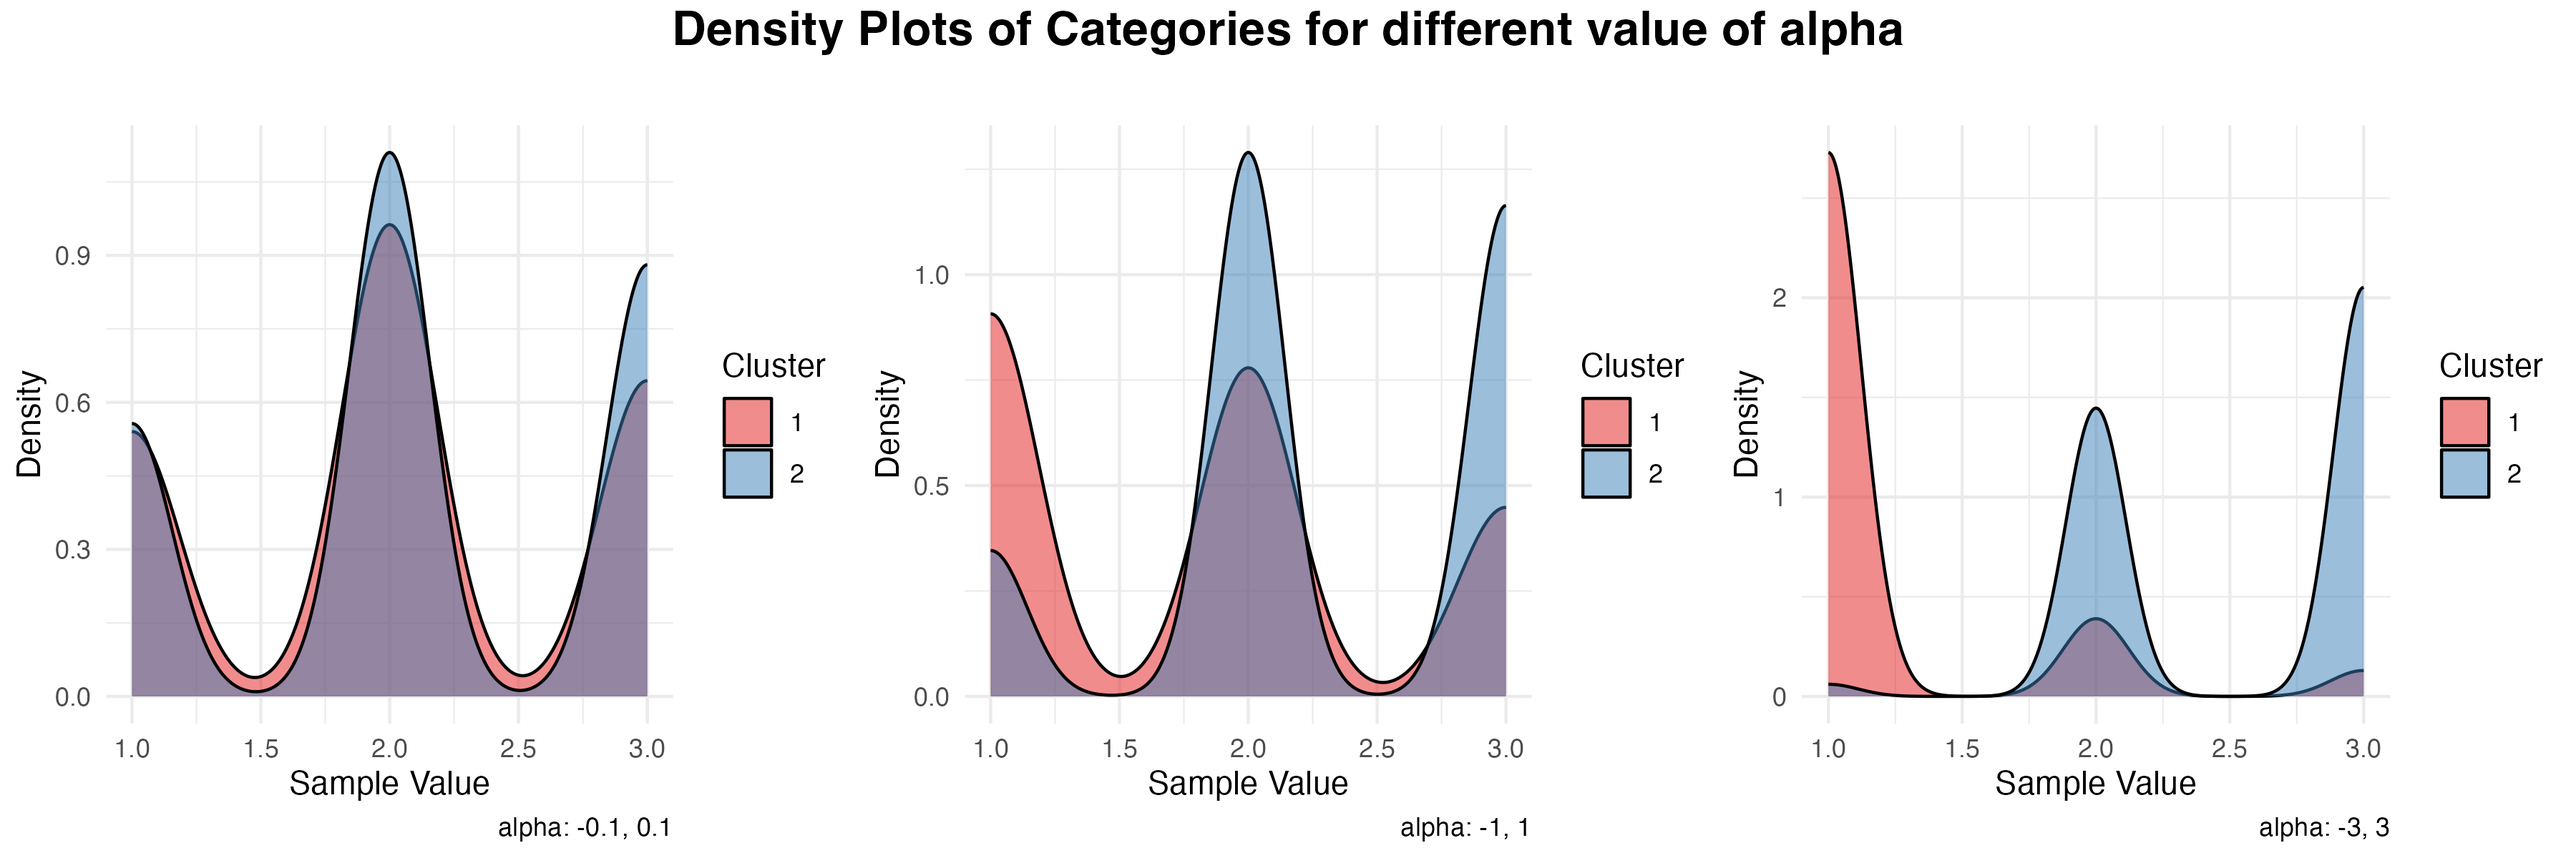
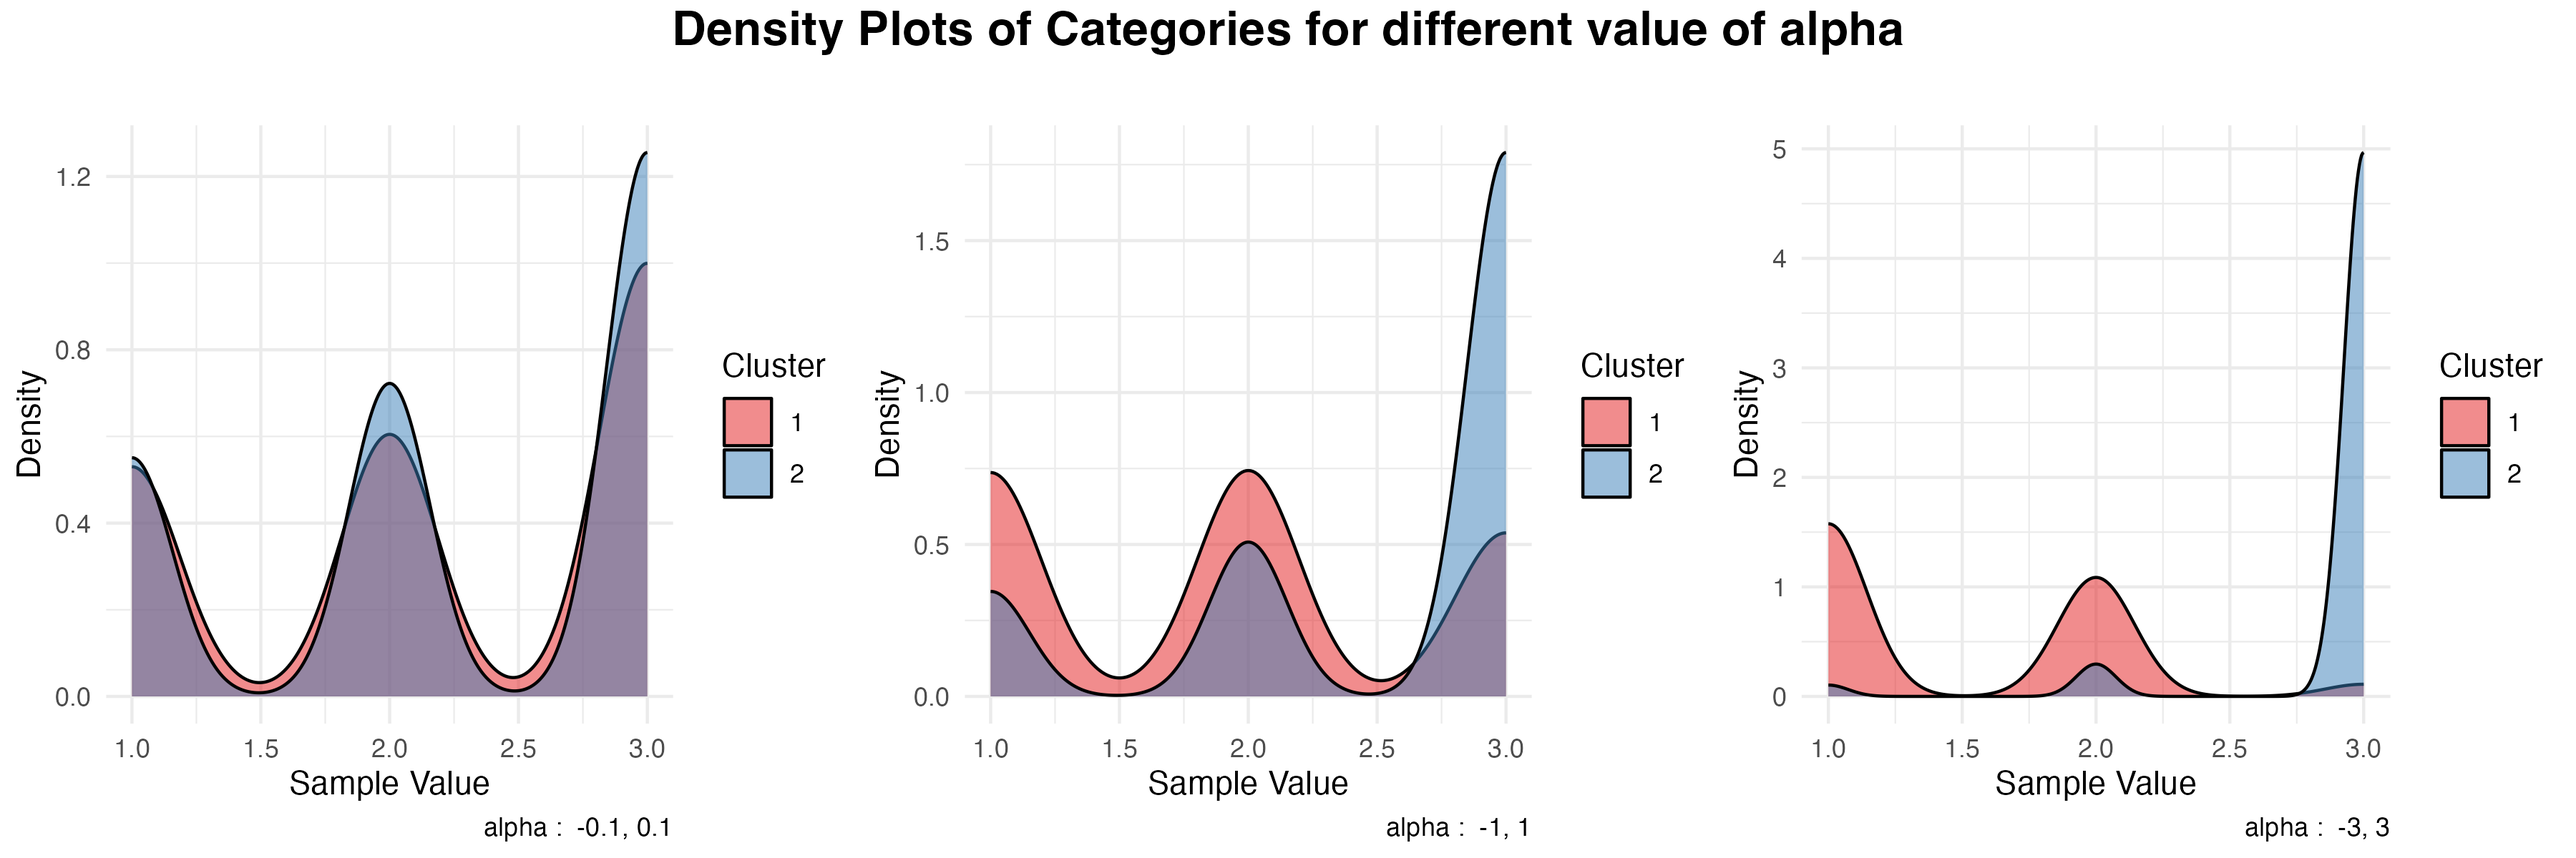
update para simulation plots

diff --git a/report/vuw_stat487_report.tex b/report/vuw_stat487_report.tex
@@ -188,13 +188,17 @@ This parameters are applied to one Y.
 
 \subsubsection{Simulation by Model Parameters}
 
-In this section, we control all parameters but adjusting $\alpha$.
-From Figure~\ref{fig:alpha} we can see clearly, 
-with alpha value of each cluster increase, 
-the density of each cluster are more different.
+In this section, we control all parameters but adjusting one parameter value. 
+e.g. $\alpha$. To show the effects of data density from this parameter adjusting.
+
+
 
 
 \subsubsection*{different $\alpha$ value}
+In OSM the sum of alpha must equal to Zero.
+From Figure~\ref{fig:alpha} we can see clearly, 
+with $\alpha$ value of each cluster increase, 
+the density of each cluster are more different.
 \begin{figure}[h]
   \centering
   \begin{subfigure}{1.0\textwidth}
@@ -207,24 +211,14 @@ the density of each cluster are more different.
 
 % mu
 \subsubsection*{different $\mu$ value}
+In Figure~\ref{fig:mu} shows 
+with $\mu$ 
+ TODO: Not clear effects
 \begin{figure}[h]
   \centering
-  \begin{subfigure}{0.3\textwidth}
+  \begin{subfigure}{1.0\textwidth}
       \centering
-      \includegraphics[width=\textwidth]{images/mu_0_06_03.png}
-      \caption{$\mu$: (0, 0.6, 0.3)}
-  \end{subfigure}
-  \hfill
-  \begin{subfigure}{0.3\textwidth}
-      \centering
-      \includegraphics[width=\textwidth]{images/mu_0_03_06.png}
-      \caption{$\mu$: (0, 0.3, 0.6)}
-  \end{subfigure}
-  \hfill
-  \begin{subfigure}{0.3\textwidth}
-      \centering
-      \includegraphics[width=\textwidth]{images/mu_03_06_01.png}
-      \caption{$\mu$: (0.3, 0.6, 0.1)}
+      \includegraphics[width=\textwidth]{images/para_sim/mu.png}
   \end{subfigure}
   \caption{effect to cluster distribution from difference $\mu$ value}
   \label{fig:mu}
@@ -232,24 +226,14 @@ the density of each cluster are more different.
 
 % phi
 \subsubsection*{different $\phi$ value}
+In Figure~\ref{fig:phi} shows
+with $\phi$ value of each cluster increase, 
+the density of each cluster are more different.
 \begin{figure}[h]
   \centering
-  \begin{subfigure}{0.3\textwidth}
+  \begin{subfigure}{1.0\textwidth}
       \centering
-      \includegraphics[width=\textwidth]{images/phi_0_08_1.png}
-      \caption{$\phi$: (0, 0.8, 0.1)}
-  \end{subfigure}
-  \hfill
-  \begin{subfigure}{0.3\textwidth}
-      \centering
-      \includegraphics[width=\textwidth]{images/phi_0_05_1.png}
-      \caption{$\phi$: (0, 0.5, 1)}
-  \end{subfigure}
-  \hfill
-  \begin{subfigure}{0.3\textwidth}
-      \centering
-      \includegraphics[width=\textwidth]{images/phi_0_02_1.png}
-      \caption{$\phi$: (0, 0.2, 0.1)}
+      \includegraphics[width=\textwidth]{images/para_sim/phi.png}
   \end{subfigure}
   \caption{effect to cluster distribution from difference $\phi$ value}
   \label{fig:phi}
@@ -258,24 +242,13 @@ the density of each cluster are more different.
 
 % pi
 \subsubsection*{different $\pi$ value}
+In Figure~\ref{fig:pi} shows
+ TODO: Not clear effects
 \begin{figure}[h]
   \centering
-  \begin{subfigure}{0.3\textwidth}
+  \begin{subfigure}{1.0\textwidth}
       \centering
-      \includegraphics[width=\textwidth]{images/pi_03_07.png}
-      \caption{$\pi$: (0.3, 0.7)}
-  \end{subfigure}
-  \hfill
-  \begin{subfigure}{0.3\textwidth}
-      \centering
-      \includegraphics[width=\textwidth]{images/pi_05_05.png}
-      \caption{$\pi$: (0.5, 0.5)}
-  \end{subfigure}
-  \hfill
-  \begin{subfigure}{0.3\textwidth}
-      \centering
-      \includegraphics[width=\textwidth]{images/pi_07_03.png}
-      \caption{$\pi$: (0.7, 0.3)}
+      \includegraphics[width=\textwidth]{images/para_sim/pi.png}
   \end{subfigure}
   \caption{effect to cluster distribution from difference $\pi$ value}
   \label{fig:pi}
